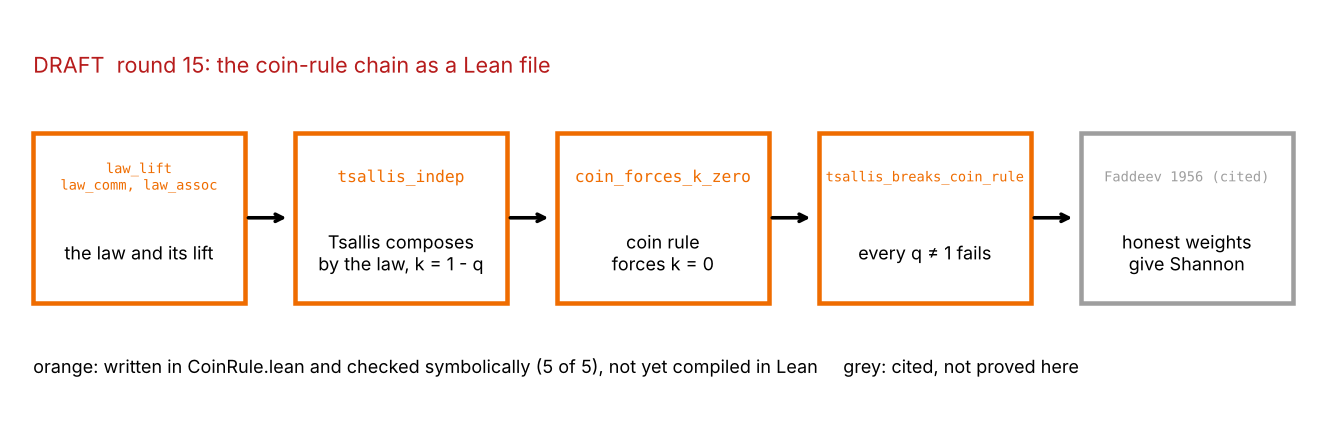
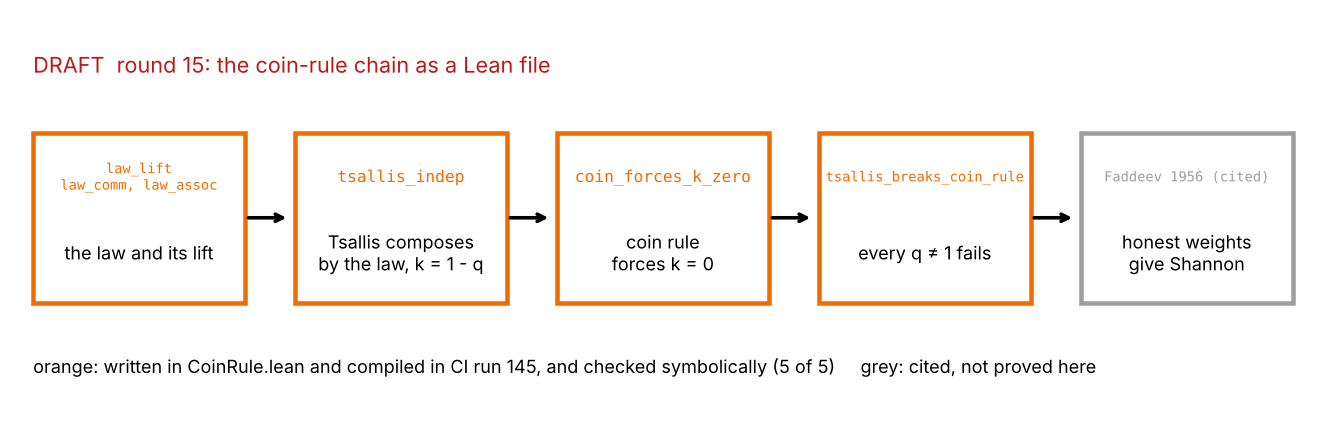
spin-i-tie lean-proof: CoinRule.lean compiled in CI run 145; header, README, figure and indexes say so (DRAFT)

Changed region(s): [[0.2764, 0.787, 0.8292, 0.8453]]

diff --git a/topics/spin-i-tie/lean-proof/figures.py b/topics/spin-i-tie/lean-proof/figures.py
@@ -9,6 +9,6 @@ for i,(name,what) in enumerate(steps):
     ax.text(x+1.05,2.55,name,ha='center',va='center',fontsize=(9 if len(name)<20 else 7.6),family='monospace',color=col)
     ax.text(x+1.05,1.8,what,ha='center',va='center',fontsize=10)
     if i<4: ax.annotate('',(x+2.55,2.15),(x+2.1,2.15),arrowprops=dict(arrowstyle='->',lw=2))
-ax.text(0.2,0.6,'orange: written in CoinRule.lean and checked symbolically (5 of 5), not yet compiled in Lean     grey: cited, not proved here',fontsize=10)
+ax.text(0.2,0.6,'orange: written in CoinRule.lean and compiled in CI run 145, and checked symbolically (5 of 5)     grey: cited, not proved here',fontsize=10)
 ax.text(0.2,3.6,'DRAFT  round 15: the coin-rule chain as a Lean file',fontsize=12,color='#b71c1c')
 fig.savefig('lp1_chain.png',dpi=130,bbox_inches='tight')

diff --git a/INDEX.md b/INDEX.md
@@ -10,7 +10,7 @@ Work saved mid-way so nothing is held back. Each is marked DRAFT at the top of i
 |---|---|---|
 | DRAFT: Navier–Stokes as two (and three) crossing flat flows. Every 3D flow in the periodic box is exactly two flat flows on crossing planes plus a plain 2D flow; all vortex stretching is one crossing term on the line where the planes meet. Ours: k on the crossing keeps energy exact (spin never grows at k = 0); runs from two crossing 2D flows grow total spin 1.2–1.9×; the quarter-turn twist (the tetracosm) is exactly the two-plane picture but trims growth by only 3%; the Klein pair's stretching all comes from the bend. Worth following as a lens, not a route to a proof as it stands. Section 8: three perpendicular planes is the cleaner exact split (no plane singled out; a plane never stretches its own spin, so all stretching sits on the three crossing lines), but it tames nothing: three planes crossing grow more than two. Section 9 (round 3): is there a limit on how fast two planes feed each other's spin? No: the flow that grows total spin fastest at an instant is itself a two-plane flow (two colliding vortex rings, no spin along their shared axis; two planes on the box diagonal reach its growth within 0.2%), so this route to a proof is closed; what matters is whether a flow stays two-plane (the tilt onto the shared line). Not a lead. Section 10 (round 4): is the 3D flow a limited view of a 4D one? No: in 4D the worst case is worse and keeps rising as the grid refines, and hidden 4th-direction motion only moves growth out of sight, so no limit comes from a 4th direction. Not a lead. 30 checks. | `topics/ns-two-planes/` | — |
 | DRAFT: every force as curvature (and twist), spacetime included. Our law on square matrices, a + b + k·ab, chained round a small loop gives each force's field: electromagnetism, weak, strong and gravity's full curvature (Weyl, Yang–Mills, Wilson: known; the loop identity and reading are ours). The k·ab cross term is what separates light from the other forces: it is the gluon and W self-interaction, and the weak force's field is the curvature of a hidden 3-sphere; C_A = 3 matches LEP; Gravity Probe B from one 4D chain (+0.1σ). Witten 1981 limit noted: fitting all three forces this way needs 11 dimensions and gives no left-handed matter. Round 5 (`round5/`): the strong force from a hidden SU(3) space; the commutator field is its twist and C_A = 3 is its curvature (QCD's number as geometry, not a new prediction). Round 6 (`round6/`): the same loops as the action give the Yang–Mills equation and both Friedmann equations (symmetry-reduced; the full set is Regge 1961). Round 7 (`round7/`): twisting the hidden space makes massless matter only in left–right pairs; flux through a hidden 2-sphere gives one hand (known, 1983), so left-handed matter would need something that acts like flux. Round 8 (`round8/`): varying the loop action gives all ten of Einstein's equations for a generic metric and Maxwell's equations from the 5D chain (textbook; smooth metric, not Regge). Round 9 (`round9/`): at the rotation end of the dial the law's own twist is 2 whole turns of flux on the closed velocity sphere, and matter charged under it comes out one-handed; at relativity's end the space is open and the flux unbounded; the hidden 2-sphere and the charge are assumed, not derived. Round 10 (`round10/`): dividing by the law's complex corner, as ⊕ does, leaves a charge ½ under the twist on top of spin, so flux 1 and one massless left-handed mode; a choice the law suggests, not one it forces (ordinary spinor bookkeeping gives charge 0). Round 11 (`round11/`): Regge's way, space glued from flat pieces; a loop's turn is the corner's deficit, the law's twist matches the deficits on average (not corner by corner, a known feature), and Regge's action tends to Einstein's (Euclidean 2D and 3D only). Round 12 (`round12/`): the law sizes the pieces itself (its own distances on 3D velocities, Ungar's Möbius addition at q = −1); the glued 3-sphere tends to Einstein's action and the deficit read back is q times a fixed constant at both ends of the dial (the starting corners are still given). Round 13 (`round13/`): the law grows the 600-cell's 120 corners from rest with 72° icosahedral kicks (only 72°/144° close); Regge read-back 0.04% off 6π², Λρ² → 1. Round 14 (`round14/`): real 4D spacetime from flat Minkowski slabs: Schläfli with boosts at spacelike hinges, Einstein's action at second order, de Sitter grown slab by slab (time put in by hand). Round 15 (`round15/`): boost loops on the slabs compose by the law at q = −1 (Thomas–Wigner, known, Ungar); time read as the fused shift: growth, bounce, de Sitter length 1/k, horizon; Λ = 3k², signature = k real. Round 16 (`round16/`): does q set k? At a moment of rest q fixes k = √q, so Λ = 3q (Regge Λ/q → 3; grown universe k/√q = 1.0012). The time step, the sign of time and Λ relative to the piece count stay inputs. Round 17 (`round17/`): electromagnetism as loops on the law-grown 3-sphere. Light's levels approach 4, 9, 16 with two equal hands; the law's q = +1 twist is the Hopf fibre, so round 10's charge ½ is the Hopf phase, and on the law's pieces that field is a lowest photon of one hand (overlap 1.0000; hand corrected in round 18). The match of space and boost group is by convention. Round 18 (`round18/`): the law's two 3-spheres are one. At q = +1 the law is the unit quaternions' symmetric product √x·y·√x; the 2D boosts are points of the grown space; round 13's 120 corners close into the binary icosahedral group; the law has no hand of its own. Corrects round 17's hand (the law's field is curl +2). Round 19 (`round19/`): at q = −1 the law is the Lorentz boosts' symmetric product: relativistic velocity addition, twist = Thomas–Wigner rotation; the dial's sign picks Spin(4) or Spin(1,3); flat spacetime is the Milne cone over the law's q = −1 space. Textbook once recognised; closes the gap. Round 20 (`round20/`): de Sitter from the law. The same law with a Lorentzian dot product is a de Sitter symmetry; its twist is a Lorentz transformation; space runs at +q, time at −q, light untouched; the law's metric solves Einstein with Λ = 3q (symbolic), matching round 16. Still put in: the Lorentzian dot. Round 21 (`round21/`): why Lorentzian? The law sees a direction as turning (space), boosting (time) or plain (light); one boosting direction plus three turning ones is the only choice with closed space, ordered time, dial-free light and no time loops; round 15's fused-shift time works only along a boosting direction. The needs are inputs. Round 22 (`round22/`): light and matter in the law's de Sitter. Maxwell reads back unchanged in the law's chart; photon energy falls as 1/a with the count kept; the law's light ray reaches the horizon a quarter of the way round; the law's mesh carries the same redshift; the law's tilted time lines are free particles. Textbook; no new lead. Round 23 (`round23/`): matter curves the law. A point mass gives Schwarzschild–de Sitter with the law's Λ = 3q (Kottler, textbook); with no mass it is exactly the law's spacetime; the dial sets the largest black hole (27qM² < 1); a ball of dust keeps the law's slices inside at a larger dial, q_in = q + 8πρ/3 (Oppenheimer–Snyder with Λ); the mass's tidal (Weyl) curvature is the one part the law's geometry doesn't have. Round 24 (`round24/`): charge on the law. Charges on the law's mesh make light exactly as Maxwell says: a + and − pair gives Coulomb on the 3-sphere (cot χ/4π), Gauss's law holds exactly, and a moving charge radiates more the quicker it moves (Larmor); on the law's closed space total charge must be zero; round 10's charge ½ is a coupling on the sphere of directions, not a source in space. Textbook; no new lead. Round 25 (`round25/`): twist, dial and tide. The law's twist is the weak force's meron (f = 1, the hilltop between its vacua f = 0 and f = 2, Chern–Simons number ½); an even twist only raises the dial (q_in = q + 8πGρ/3, no tide); a q that varies from place to place makes the tide, exactly 3/2(q̄ − q_loc) (Schur's lemma); so the chain runs twist → q → tide. Textbook; no new lead. Round 26 (`round26/`): moving tide and waves. The magnetic half of the tide comes only from motion (B = 3ḣ/a on squashing slices); a slow spin in the law's de Sitter gives frame dragging 2J/r³ with q dropping out; the law's lowest gravitational wave (n = 3) is frozen, swings once through the waist and refreezes; a ripple in the weak-force twist makes gravitational waves only on the law's f = 1 field (couplings 3 and −6, zero at the vacua). Textbook; no new lead. Confirms round 25's two citations. Round 27 (`round27/`): the gravity prediction hunt, run with the prior-art audit. Read literally, the law sets today's curvature to Ω_k = −Ω_Λ, which data rules out by hundreds of sigma. Its tie to Einstein holds only at a moment of rest, and our past had none. The one open, testable item is closed slices of any size, which is chosen, not forced; DESI DR2+CMB leans open at 2.1σ, against it, and Planck+BAO is neutral. What the law does fix (the f = 1 field, the n = 3 wave) is out of reach. No new lead. Round 28 (`round28/`): the law doesn't force closed space. One de Sitter spacetime carries closed, flat and open slicings with the same Λ, and the law's q = k/a² equals Λ/3 only at a moment of rest. Its twist is curvature, not torsion (torsion 2(f − 1) = 0 at f = 1), so it fixes no spin–twist coupling against Einstein–Cartan. No lead. Round 29 (`round29/`): the law doesn't fix the dial's dark-energy slope; every slope it forces fails (√(10/3) at negative energy, √2 worse than Λ by Δχ² = 22); the fitted 0.82 is chosen, not predicted. Settles audit C6, no lead. Round 30 (`round30/`): a lump's own tidal pull at rest from the law's local rule plus the Bianchi identity (matches Einstein's m(r) to 4e-12); 2 functions per point stay free (gravitational waves); closes round 23's gap for matter at rest; no new prediction. Round 31 (`round31/`): the hidden 2-sphere with one unit of flux that rounds 9-10 assumed comes from the law's hidden 3-sphere (Hopf fibration, textbook); flux 2 gives a one-handed doublet with SU(2)×U(1) left, but both signs of weight appear equally so handed zero modes cancel (Witten 1981); keeping one sign still isn't derived. No lead. Round 32 (`round32/`): no reason inside the law to keep one hand. The law's sum is its own mirror; its Dirac spectrum on the hidden 3-sphere is exactly symmetric; other twist members slide it (η(0) = 3(f−1)(3f²−6f+2)/4, a parity-odd number); 4+3 dimensions allow no one-hand rule. Assumption (b) stays. No lead. Round 33 (`round33/`): with round 31's 2-sphere taken as a premise, the weak force's shape follows (one-handed doublets at weight 1, singlets at weight ½, SU(2)×U(1)) but the measured charges don't: the premise ties hypercharge to multiplet size, which can't give Q's 1/6 and L's −½; anomalies can't cancel with one 6D hand; the round 3-sphere gives sin²θ_W = ½, reached only above the Planck energy. No lead. Round 34 (`round34/`): gravitational waves on spacetime glued from flat pieces. The law's loop twist gives Einstein's linearized action at long wavelengths (Roček–Williams 1981), and at real frequency exactly 2 polarizations (+, ×) at light speed. The cone matches the plain lattice wave equation at every wavelength; GW170817 needs pieces under ~9 cm. It fixes how round 30's free data move, not the data. An extra flex mode and the exact cone match are not yet searched in the literature. No new physics. Round 35 (`round35/`): wave energy: gravitational-wave energy on flat pieces; Isaacson; quadrupole formula; Hulse–Taylor 0.9983 ± 0.0016 of prediction; no new physics. Round 36 (`round36/`): the law is the sphere's turn; on a 10-sphere its symmetry is SO(10), one generation of 16 with measured charges, anomalies cancel; sin²θ_W 3/8, needs a middle stage (textbook SO(10): Georgi 1974; Fritzsch–Minkowski 1975). Prior-art audit (`prior-art-audit/`): what in the theory is actually new. The one-law physics core is in print (Nesterov and Sabinin 2000–2004; the 3D law is κ-addition, Bachmann et al. 2020; Ungar for q < 0); round 25's tide is Sussman 2013 and round 26's wave is Abbassi et al. 2013; a short list of prediction candidates in PREDICTION-CANDIDATES.md; 6 checks. 61 + 10 + 10 + 6 + 5 + 7 + 7 + 9 + 9 + 6 + 9 + 7 + 7 + 6 + 6 + 6 + 6 + 5 + 5 + 5 + 5 + 5 + 4 + 6 + 4 + 5 + 4 + 4 + 4 + 4 + 4 + 4 + 4 + 6 checks; not in Lean. | `topics/forces-as-curvature/` (`round5/` to `round36/`, `prior-art-audit/`) | — |
-| DRAFT: spin–i tie. A turn works only if it carries a circle phase, in both the spinning twist bubble and quantum mechanics' i; root is known physics (1997–2003), new is the shift lemma and the f=1 quarter-turn count; 7/7 checks. Round 2, the clock test (`clock-test/`, Nov 28): letting time be one clock tied to everything keeps the i (the direction the clock turns), but one clock can't make quantum chance alone; a clock shared by two particles reaches 2√2 only with a signal between them (at least 0.41 bits per pair), and twisting time into a helix never changes the odds; the surviving version is Valentini 1991. No lead; 22 checks. Round 3, info causality (`info-causality/`, Nov 28): the k = −2 law chains boxes (p+q−2pq), and quantum boxes sit on the law's turn circle; information causality's disc caps at 2√2; the principle is still assumed. 4 checks. Round 4, forces circle (`forces-circle/`, Nov 28): the law's flip p∘₋₂1 = 1−p gives quadratic information growth, then the circle, then 2√2; the union rule can't pick the entropy, so Shannon's chain rule is still needed. 3 checks. Round 5, chain rule (`chain-rule/`, Nov 28): the law holds one chain rule per dial (Rényi, k = (1 − α) ln 2), and Shannon is k = 0; every finite dial gives the same circle and 2√2 only deep in the tree (corrected by round 6); the one-bit bound still uses Shannon's. 3 checks. Round 6, Rényi bound (`renyi-bound/`, Nov 28): a Rényi information causality rules out quantum at order 2 (Oughton–Timpson 2024, reproduced as √(√2−1) ≈ 0.644); low orders reach 2√2 only deep in the tree; corrects chain-rule. 5 checks. Round 7, crack chain (`crack-chain/`, Nov 28): partly: a chain rule holds at every dial with the leftover weighted by p^q, and those weights add to the law's lift 1 + k·S; Shannon (k = 0) is the one dial where they are honest probabilities, so the chain rule comes down to honest averaging (Faddeev 1956, known); small lead via the linearity of mixtures. 6 checks. Round 8, linear mixing (`linear-mixing/`, Nov 28): Yes, with one honest assumption: if an irrelevant coin flip doesn't change how much is left to learn, the law's information dial is pinned to k = 0 and the entropy must be Shannon's (any other dial scales the leftover by the lift 1 + k·S(coin)); the coin rule is our reading of mixtures adding linearly, which quantum mechanics already assumes, so the chain rule comes from the same linearity (Faddeev 1956 grouping, known); modest lead; information causality is the one assumption left. 6 checks. Round 9, ic from coin (`ic-from-coin/`, Nov 28): No: PR boxes obey no-signalling and their records are plain bits that obey the coin rule, yet they pass 2 bits through a 1-bit message (depth-1 game: PR 2.00, quantum 0.80, classical 0.38 bits); what's missing is known (Barnum et al. 2009): the theory's own states must carry one entropy for mixing and measuring, which a qubit's ball has and a PR box's square doesn't; no new lead; the last assumption is why states form a ball, not a square (quantum reconstruction). 5 checks. Round 10, polygon entropy (`polygon-entropy/`, Nov 28): Not gradually: as sides are added the inside rounds off (the average disagreement between mixing and measuring entropy fades) but the edges keep a full 1-bit disagreement (even sides) or climb toward it (odd sides), so among regular polygons only the triangle (classical) and the exact disk (a qubit) pass; failure at each finite size is known (Barnum et al. 2009), the size picture is ours; both ends of this thread rest on continuous rotations; no new lead. 5 checks. Round 11, interference law (`interference-law/`, Nov 28): No, and averaging lands only on k = 0: two paths combine as p + q + 2√(pq)·cos φ, an angle on a circle, not a fixed k; averaging over unseen phases leaves plain adding (k = 0); the law at k ≠ 0 interferes at every order (k^(n−1) times the product) while quantum stops at 2 paths (Sorkin 1994), so no averaging reaches k ≠ 0; modest lead (Brennan's aggregation hunch made precise); next, the three-slit bound turned into a bound on k. 6 checks. Round 12, three-slit cap (`three-slit-cap/`, Nov 28): The best three-slit data keep the law's k within about 0.07 of zero (|k·w| < 0.024, Kauten et al. 2017; |k| < 0.7 from Sinha et al. 2010) with the law riding on top of quantum interference; the law's three-path term k²·abc against the measured κ; not a discovery, a number for the k ≠ 0 world that fits rounds 8 and 11. 4 checks. Round 13, mm-map (`mm-map/`, Nov 28): The law against Masanes and Müller's five rules. Local tomography is the law at k = +1 on counts of free numbers; the mixing frame is the coin rule (k = 0); three rules say nothing about the law. Modest lead: the law as a shared grammar with three dials (0, +1, −2). 4 checks. Round 14, smooth-turns (`smooth-turns/`, Nov 28): Can the flip be built from smooth turns? Yes, once the step is complex: at k = −2 the steps (1 − e^{it})/2 compose as angles add and give a qubit turn with odds sin²(t/2); real steps pass an erasing point, and staying reversible picks k = −2 alone. Modest lead. 7 checks. Round 15, lean-proof (`lean-proof/`, Nov 28): The coin-rule chain as a Lean file (`CoinRule.lean`, Mathlib): the lift, commutativity and associativity, Tsallis composing by the law with k = 1 − q, and every q ≠ 1 breaking the coin rule. Written without a Lean toolchain; CI's Mathlib job builds it (report only). Checked in sympy. A tool, no new lead. 5 checks. Round 16, spin-3d (`spin-3d/`, Nov 28): Do two flips glue into full 3D spin? Yes, if they anticommute: their turns are exactly spin-½, and the third axis forces i (ZX twice is −1, only −i·ZX is a flip); commuting flips give no 3D turns. Modest lead: spin and i meet at the anticommutation. 7 checks. Round 17, uncertainty-sign (`uncertainty-sign/`, Nov 28): Does maximal 50/50 uncertainty bring out the sign? Yes (a full bit exactly when the flips anticommute, also for Tsallis at k = −1), but not i: real numbers allow two such flips, and i is needed only for a third. Closes a loop, no new lead. 6 checks. | `topics/spin-i-tie/` (`clock-test/`, `info-causality/`, `forces-circle/`, `chain-rule/`, `renyi-bound/`, `crack-chain/`, `linear-mixing/`, `ic-from-coin/`, `polygon-entropy/`, `interference-law/`, `three-slit-cap/`, `mm-map/`, `smooth-turns/`, `lean-proof/`, `spin-3d/`, `uncertainty-sign/`) | — |
+| DRAFT: spin–i tie. A turn works only if it carries a circle phase, in both the spinning twist bubble and quantum mechanics' i; root is known physics (1997–2003), new is the shift lemma and the f=1 quarter-turn count; 7/7 checks. Round 2, the clock test (`clock-test/`, Nov 28): letting time be one clock tied to everything keeps the i (the direction the clock turns), but one clock can't make quantum chance alone; a clock shared by two particles reaches 2√2 only with a signal between them (at least 0.41 bits per pair), and twisting time into a helix never changes the odds; the surviving version is Valentini 1991. No lead; 22 checks. Round 3, info causality (`info-causality/`, Nov 28): the k = −2 law chains boxes (p+q−2pq), and quantum boxes sit on the law's turn circle; information causality's disc caps at 2√2; the principle is still assumed. 4 checks. Round 4, forces circle (`forces-circle/`, Nov 28): the law's flip p∘₋₂1 = 1−p gives quadratic information growth, then the circle, then 2√2; the union rule can't pick the entropy, so Shannon's chain rule is still needed. 3 checks. Round 5, chain rule (`chain-rule/`, Nov 28): the law holds one chain rule per dial (Rényi, k = (1 − α) ln 2), and Shannon is k = 0; every finite dial gives the same circle and 2√2 only deep in the tree (corrected by round 6); the one-bit bound still uses Shannon's. 3 checks. Round 6, Rényi bound (`renyi-bound/`, Nov 28): a Rényi information causality rules out quantum at order 2 (Oughton–Timpson 2024, reproduced as √(√2−1) ≈ 0.644); low orders reach 2√2 only deep in the tree; corrects chain-rule. 5 checks. Round 7, crack chain (`crack-chain/`, Nov 28): partly: a chain rule holds at every dial with the leftover weighted by p^q, and those weights add to the law's lift 1 + k·S; Shannon (k = 0) is the one dial where they are honest probabilities, so the chain rule comes down to honest averaging (Faddeev 1956, known); small lead via the linearity of mixtures. 6 checks. Round 8, linear mixing (`linear-mixing/`, Nov 28): Yes, with one honest assumption: if an irrelevant coin flip doesn't change how much is left to learn, the law's information dial is pinned to k = 0 and the entropy must be Shannon's (any other dial scales the leftover by the lift 1 + k·S(coin)); the coin rule is our reading of mixtures adding linearly, which quantum mechanics already assumes, so the chain rule comes from the same linearity (Faddeev 1956 grouping, known); modest lead; information causality is the one assumption left. 6 checks. Round 9, ic from coin (`ic-from-coin/`, Nov 28): No: PR boxes obey no-signalling and their records are plain bits that obey the coin rule, yet they pass 2 bits through a 1-bit message (depth-1 game: PR 2.00, quantum 0.80, classical 0.38 bits); what's missing is known (Barnum et al. 2009): the theory's own states must carry one entropy for mixing and measuring, which a qubit's ball has and a PR box's square doesn't; no new lead; the last assumption is why states form a ball, not a square (quantum reconstruction). 5 checks. Round 10, polygon entropy (`polygon-entropy/`, Nov 28): Not gradually: as sides are added the inside rounds off (the average disagreement between mixing and measuring entropy fades) but the edges keep a full 1-bit disagreement (even sides) or climb toward it (odd sides), so among regular polygons only the triangle (classical) and the exact disk (a qubit) pass; failure at each finite size is known (Barnum et al. 2009), the size picture is ours; both ends of this thread rest on continuous rotations; no new lead. 5 checks. Round 11, interference law (`interference-law/`, Nov 28): No, and averaging lands only on k = 0: two paths combine as p + q + 2√(pq)·cos φ, an angle on a circle, not a fixed k; averaging over unseen phases leaves plain adding (k = 0); the law at k ≠ 0 interferes at every order (k^(n−1) times the product) while quantum stops at 2 paths (Sorkin 1994), so no averaging reaches k ≠ 0; modest lead (Brennan's aggregation hunch made precise); next, the three-slit bound turned into a bound on k. 6 checks. Round 12, three-slit cap (`three-slit-cap/`, Nov 28): The best three-slit data keep the law's k within about 0.07 of zero (|k·w| < 0.024, Kauten et al. 2017; |k| < 0.7 from Sinha et al. 2010) with the law riding on top of quantum interference; the law's three-path term k²·abc against the measured κ; not a discovery, a number for the k ≠ 0 world that fits rounds 8 and 11. 4 checks. Round 13, mm-map (`mm-map/`, Nov 28): The law against Masanes and Müller's five rules. Local tomography is the law at k = +1 on counts of free numbers; the mixing frame is the coin rule (k = 0); three rules say nothing about the law. Modest lead: the law as a shared grammar with three dials (0, +1, −2). 4 checks. Round 14, smooth-turns (`smooth-turns/`, Nov 28): Can the flip be built from smooth turns? Yes, once the step is complex: at k = −2 the steps (1 − e^{it})/2 compose as angles add and give a qubit turn with odds sin²(t/2); real steps pass an erasing point, and staying reversible picks k = −2 alone. Modest lead. 7 checks. Round 15, lean-proof (`lean-proof/`, Nov 28): The coin-rule chain as a Lean file (`CoinRule.lean`, Mathlib): the lift, commutativity and associativity, Tsallis composing by the law with k = 1 − q, and every q ≠ 1 breaking the coin rule. Written without a Lean toolchain; CI's Mathlib job builds it (report only) and compiled it with no errors in run 145. Checked in sympy. A tool, no new lead. 5 checks. Round 16, spin-3d (`spin-3d/`, Nov 28): Do two flips glue into full 3D spin? Yes, if they anticommute: their turns are exactly spin-½, and the third axis forces i (ZX twice is −1, only −i·ZX is a flip); commuting flips give no 3D turns. Modest lead: spin and i meet at the anticommutation. 7 checks. Round 17, uncertainty-sign (`uncertainty-sign/`, Nov 28): Does maximal 50/50 uncertainty bring out the sign? Yes (a full bit exactly when the flips anticommute, also for Tsallis at k = −1), but not i: real numbers allow two such flips, and i is needed only for a third. Closes a loop, no new lead. 6 checks. | `topics/spin-i-tie/` (`clock-test/`, `info-causality/`, `forces-circle/`, `chain-rule/`, `renyi-bound/`, `crack-chain/`, `linear-mixing/`, `ic-from-coin/`, `polygon-entropy/`, `interference-law/`, `three-slit-cap/`, `mm-map/`, `smooth-turns/`, `lean-proof/`, `spin-3d/`, `uncertainty-sign/`) | — |
 | DRAFT: torsion. Derived, not a new dial; it's the law's order gap at second order. Scalar and two-dial laws have none; chains are the flat f=0 member (torsion k·[A,B]); the 3-sphere sum is exactly x^½ y x^½ (f=1, none), forced by −(a⊕b)=(−a)⊕(−b); in-between f = the order-dial λ breaks the law's rules. No lead; 8 checks. | `topics/torsion-dial/` | — |
 | DRAFT: is space a Klein bottle? Space probably isn't a Klein bottle (the weak force's handedness rules it out); left-right-keeping twists (half-turn space) are still open; copies 27.3–33.3 Gpc away are testable; spinors pick up ±1 or ±i. Not a lead; 8 checks. | `topics/klein-universe/` | — |
 | DRAFT: physics bridges: where the law meets SO(10), heterotic strings, M-theory (Englert 1982), Einstein–Cartan (Cartan–Schouten 1926), loop quantum gravity and spin foams, Kaluza–Klein, Page–Wootters and Pin±; four are the same mathematics, the rest arithmetic or resemblance. Not a lead; 9 checks. | `topics/physics-bridges/` | — |

diff --git a/IN-PROGRESS.md b/IN-PROGRESS.md
@@ -181,7 +181,7 @@ Nov 28: `topics/spin-i-tie/ic-from-coin/` added (DRAFT, new files, frozen 01:29 
 Nov 28: `topics/spin-i-tie/polygon-entropy/` added (DRAFT, new files, frozen 01:49 UTC): not gradually: as sides are added the inside rounds off (the average disagreement between mixing and measuring entropy fades) but the edges keep a full 1-bit disagreement (even sides) or climb toward it (odd sides), so among regular polygons only the triangle (classical) and the exact disk (a qubit) pass; failure at each finite size is known (Barnum et al. 2009), the size picture is ours; both ends of this thread rest on continuous rotations; no new lead. 5 checks (about a minute); runs in the per-push quick checks. Not in Lean.
 Nov 28: `topics/spin-i-tie/interference-law/` added (DRAFT, new files, frozen 02:09 UTC): no, and averaging lands only on k = 0: two paths combine as p + q + 2√(pq)·cos φ, an angle on a circle, not a fixed k; averaging over unseen phases leaves plain adding (k = 0); the law at k ≠ 0 interferes at every order (k^(n−1) times the product) while quantum stops at 2 paths (Sorkin 1994), so no averaging reaches k ≠ 0; modest lead (Brennan's aggregation hunch made precise); next, the three-slit bound turned into a bound on k. 6 checks; runs in the per-push quick checks. Not in Lean.
 Nov 28: `topics/spin-i-tie/three-slit-cap/` added (DRAFT, new files, frozen 02:16 UTC): the best three-slit data keep the law's k within about 0.07 of zero (|k·w| < 0.024, Kauten et al. 2017; |k| < 0.7 from Sinha et al. 2010) with the law riding on top of quantum interference; the law's three-path term k²·abc against the measured κ; not a discovery, a number for the k ≠ 0 world that fits rounds 8 and 11. 4 checks; runs in the per-push quick checks. Not in Lean.
-Nov 28: `topics/spin-i-tie/` rounds 13–17 added (DRAFT, new files, frozen 05:13–05:35 UTC): `mm-map/` (4 checks), `smooth-turns/` (7), `lean-proof/` (5), `spin-3d/` (7), `uncertainty-sign/` (6). All five checks.py are unit-test style (a few seconds) and run in quick CI by the checks*.py glob. `lean-proof/CoinRule.lean` imports Mathlib and was written without a Lean toolchain; CI's Mathlib job builds it on its own (report-only step, tools/mathlib_topic_files.py), and core Lean's topic step skips it. It is not part of the core library.
+Nov 28: `topics/spin-i-tie/` rounds 13–17 added (DRAFT, new files, frozen 05:13–05:35 UTC): `mm-map/` (4 checks), `smooth-turns/` (7), `lean-proof/` (5), `spin-3d/` (7), `uncertainty-sign/` (6). All five checks.py are unit-test style (a few seconds) and run in quick CI by the checks*.py glob. `lean-proof/CoinRule.lean` imports Mathlib and was written without a Lean toolchain; CI's Mathlib job builds it on its own (report-only step, tools/mathlib_topic_files.py), and core Lean's topic step skips it. It compiled with no errors there in run 145. It is not part of the core library.
 Nov 27: `topics/torsion-dial/` added (DRAFT, new files): torsion is derived, not a new dial; it's the law's order gap at second order. Scalar and two-dial laws have none; chains are the flat f=0 member (torsion k·[A,B]); the 3-sphere sum is exactly x^½ y x^½ (f=1, none), forced by −(a⊕b)=(−a)⊕(−b); in-between f = the order-dial λ breaks the law's rules. No lead; 8 checks; checks.py runs in CI by the checks*.py glob; at Brennan's word, `topics/dial-audit/DERIVED-DIALS.md` gains a torsion row (derived). Not in Lean.
 Nov 27: `topics/klein-universe/` added (DRAFT, new files, frozen 23:49 UTC): space probably isn't a Klein bottle (the weak force's handedness rules it out); left-right-keeping twists (half-turn space) still open; copies 27.3–33.3 Gpc testable; spinors pick up ±1 or ±i. Not a lead; 8 checks; checks.py runs in CI by the checks*.py glob.
 Nov 28: `topics/physics-bridges/` added (DRAFT, new files, frozen 00:26 UTC): where the law meets SO(10), heterotic strings, M-theory (Englert 1982), Einstein–Cartan (Cartan–Schouten 1926), loop quantum gravity and spin foams, Kaluza–Klein, Page–Wootters and Pin±; four are the same mathematics, the rest arithmetic or resemblance. 9 checks (about 100 to 270 s); checks.py runs in CI by the checks*.py glob. Not in Lean.

diff --git a/topics/spin-i-tie/README.md b/topics/spin-i-tie/README.md
@@ -166,7 +166,7 @@ So the hunch "a rotation forces a circle-shaped phase" holds, in the precise tex
 - `three-slit-cap/` (DRAFT, Nov 28): round 12, how far from zero can the law's k be? The best three-slit data keep it within about 0.07 (|k·w| < 0.024 from Kauten et al. 2017; |k| < 0.7 from Sinha et al. 2010), reading the law as riding on top of quantum interference. Not a discovery: a number for the k ≠ 0 world, which fits rounds 8 and 11. 4 checks. See [three-slit-cap/README.md](three-slit-cap/README.md).
 - `mm-map/` (DRAFT, Nov 28): round 13, the law against Masanes and Müller's five rules. Local tomography is the law at k = +1 on counts of free numbers; the mixing frame is the coin rule (k = 0); three rules say nothing about the law. Modest lead: the law as a shared grammar with three dials (0, +1, −2). 4 checks.
 - `smooth-turns/` (DRAFT, Nov 28): round 14, can the flip be built from smooth turns? Yes, once the step is complex: at k = −2 the steps (1 − e^{it})/2 compose as angles add and give a qubit turn with odds sin²(t/2); real steps pass an erasing point, and staying reversible picks k = −2 alone. Modest lead. 7 checks.
-- `lean-proof/` (DRAFT, Nov 28): round 15, the coin-rule chain as a Lean file (`CoinRule.lean`, Mathlib): the lift, commutativity and associativity, Tsallis composing by the law with k = 1 − q, and every q ≠ 1 breaking the coin rule. Written without a Lean toolchain; CI's Mathlib job builds it (report only). Checked in sympy. A tool, no new lead. 5 checks.
+- `lean-proof/` (DRAFT, Nov 28): round 15, the coin-rule chain as a Lean file (`CoinRule.lean`, Mathlib): the lift, commutativity and associativity, Tsallis composing by the law with k = 1 − q, and every q ≠ 1 breaking the coin rule. Written without a Lean toolchain; CI's Mathlib job builds it (report only) and compiled it with no errors in run 145. Checked in sympy. A tool, no new lead. 5 checks.
 - `spin-3d/` (DRAFT, Nov 28): round 16, do two flips glue into full 3D spin? Yes, if they anticommute: their turns are exactly spin-½, and the third axis forces i (ZX twice is −1, only −i·ZX is a flip); commuting flips give no 3D turns. Modest lead: spin and i meet at the anticommutation. 7 checks.
 - `uncertainty-sign/` (DRAFT, Nov 28): round 17, does maximal 50/50 uncertainty bring out the sign? Yes (a full bit exactly when the flips anticommute, also for Tsallis at k = −1), but not i: real numbers allow two such flips, and i is needed only for a third. Closes a loop, no new lead. 6 checks.
 - `README.md`: this write-up.

diff --git a/topics/spin-i-tie/lean-proof/README.md b/topics/spin-i-tie/lean-proof/README.md
@@ -1,17 +1,15 @@
 # DRAFT — Round 15: the coin-rule chain as a Lean file
 
-**Result:** `CoinRule.lean` states and proves, for Lean 4 with Mathlib: the law's lift, that the law is commutative and associative, that Tsallis entropy composes independent parts by the law with k = 1 − q, and that every Tsallis entropy with q ≠ 1 breaks the coin rule. **It has not been compiled.** Installing Lean was refused in the workspace where it was written, so no machine has checked the Lean. The same five steps pass a symbolic check in sympy (`checks.py`, 5 of 5).
+**Result:** `CoinRule.lean` states and proves, for Lean 4 with Mathlib: the law's lift, that the law is commutative and associative, that Tsallis entropy composes independent parts by the law with k = 1 − q, and that every Tsallis entropy with q ≠ 1 breaks the coin rule. **It compiles:** the repo's CI (run 145) compiled it against the pinned Mathlib with no errors. The same five steps also pass a symbolic check in sympy (`checks.py`, 5 of 5).
 
 ![chain](lp1_chain.png)
 
-## To check it on your own computer
-1. Install Lean with elan (see the Lean community's install page).
-2. `lake new coinrule math` makes a project with Mathlib, and `lake exe cache get` fetches Mathlib's prebuilt files.
-3. Copy `CoinRule.lean` into the project and run `lake env lean CoinRule.lean`. No output means every proof checked.
+## How it's checked
+The repo's CI has a Mathlib job that compiles `CoinRule.lean` against the pinned Mathlib. That step is report-only.
 
 ## Ours vs known
 - Known: Tsallis pseudo-additivity (Tsallis 1988), and Faddeev 1956 (honest-weight grouping gives Shannon). Faddeev is cited, not proved here.
 - Ours: the packaging as one short chain from the law to "only k = 0 passes the coin rule".
 
 ## Lead?
-No new lead. It's a tool: once it compiles, the core claim of rounds 7 and 8 is machine-checked.
+No new lead. It's a tool: the core claim of rounds 7 and 8 is now machine-checked.
